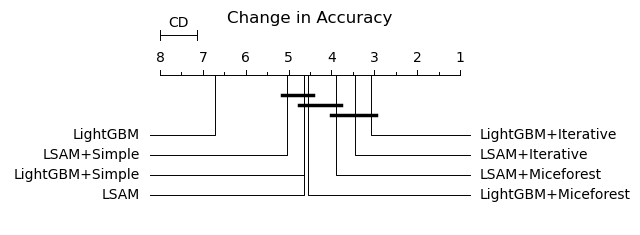
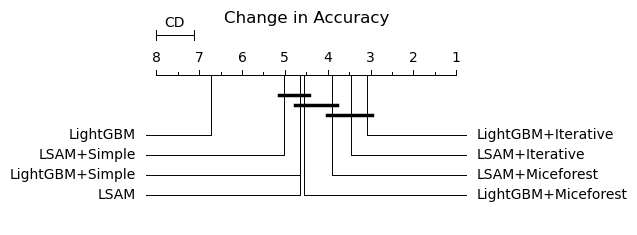
critical difference

diff --git a/cd-diagram/orange.py b/cd-diagram/orange.py
@@ -101,7 +101,7 @@ def wilcoxon_holm(alpha=0.05, df_perf=None):
 def draw_cd_diagram(df_perf, title="Accuracy", labels=True, savename=None):
     p_values, average_ranks, max_nb_datasets = wilcoxon_holm(alpha=0.05, df_perf=df_perf)
     cd = Orange.evaluation.compute_CD(average_ranks.values, len(df_perf), alpha="0.05", test="nemenyi") #tested on 30 datasets
-    Orange.evaluation.graph_ranks(average_ranks.values, average_ranks.index, cd=cd, width=6, textspace=1.5, reverse=True)
+    Orange.evaluation.graph_ranks(average_ranks.values, average_ranks.index, cd=cd, width=4, textspace=0.5, reverse=True)
     plt.title(title, y=0.9, x=0.5)
     if savename is not None:
         plt.savefig(savename,bbox_inches='tight')
